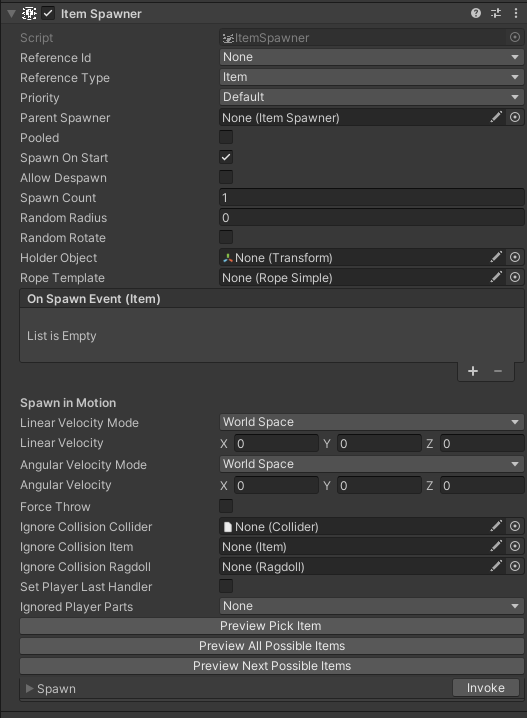
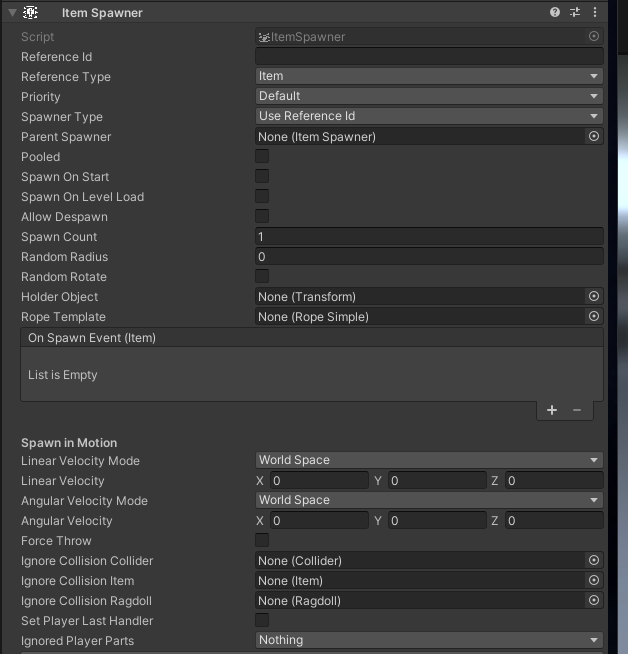
Updated ImbueZone and ItemSpawner scripts

diff --git a/Components/ThunderRoad/Items/ItemSpawner.md b/Components/ThunderRoad/Items/ItemSpawner.md
@@ -4,13 +4,11 @@ grand_parent: ThunderRoad
 ---
 # Item Spawner
 
-Item Spawner is a script that allows you to spawn an item, whether it be to spawn a prop, shoot an item or any other means. This script allows you to spawn items through [Unity Events][UnityEvents], spawning items with motion, to allow you to create spawnable projectiles.
+Item Spawner is a script that allows you to spawn an item, whether it be to spawn a prop, shoot an item or any other means. This script allows you to spawn items through events, spawning items with motion, to allow you to create spawnable projectiles.
+
+[Unity Event Documentation](https://docs.unity3d.com/Manual/UnityEvents.html){: .btn .btn-purple }
 
 ![ItemSpawner][ItemSpawner]
-
-{: .note}
-"Spawn" Button is for internal use only, it may be removed in the future.
-
 
 {: .note}
 If your item has a JSON inside the Unity Catelog, it will show a gizmo of the item if the ID matches. It will also do the same for a LootTable, of which it shows all the items in the selection.
@@ -23,9 +21,11 @@ If your item has a JSON inside the Unity Catelog, it will show a gizmo of the it
 | Reference ID          | The Item ID of the [Item][Item] you want to spawn OR the LootTable ID.
 | Reference Type        | If the Reference is an Item, set to ``Item`` and if it is a Group of Items (LootTable), set to ``Loot Table``.
 | Priority              | This depicts how items spawn in Levels and Dungeons. For more information, see picture at the bottom of this page.
+| Spawner Type          | This allows you to change the type of spawner. This will let you pick if the item uses the reference ID, or if the Spawner spawns items for Dungeon rooms. See Below.
 | Parent Spawner        | When referencing another spawner, this item spawner will spawn the item AFTER the referenced spawner has spawned an item. This prevents item overlap.
 | Pooled                | Spawns items that are stored in pool (For items like Arrows, rocks).
-| Spawn on Start        | Spawns the item on level load or on component enable.
+| Spawn on Start        | Spawns the item on start/component load.
+| Spawn on Level Load   | Spawns the item on Level Load.
 | Allow Despawn         | Allows the item to be able to be despawned (e.g. on new wave start).
 | Spawn Count           | Depicts the amount of the item that spawn at one time.
 | Random Radius         | Radius of the item spawn (Indicates items don't spawn at one point).
@@ -33,7 +33,21 @@ If your item has a JSON inside the Unity Catelog, it will show a gizmo of the it
 | Holder Object         | Reference the [Holder][Holder] that the item gets spawned in to.
 | Rope Template         | Reference the [RopeSimple][RopeSimple] that the item hooks on to.
 
+### Spawner Type
+
+| Type                  | Description
+| ---                   | ---
+| Use Reference Id      | Uses the Reference ID.
+| Side Room             | Will spawn Outpost SideRoom loot.
+| Enemy Drop            | The item spawner will classify this as an "enemy drop" and will be counted as stolen.
+| Treasure              | Will spawn "Treasure" loot.
+| Reward                | Will spawn Outpost "End Chest" loot.
+| Alt Side Room         | Will spawn Dalgarian SideRoom loot.
+| Alt Treasure          | Will spawn Dalgarian "Treasure" loot.
+
 ## Events
+
+[Unity Event Documentation](https://docs.unity3d.com/Manual/UnityEvents.html){: .btn .btn-purple }
 
 This script now supports "On Spawn Event". When an item is spawned via this component, this event will trigger.
 
@@ -63,7 +77,6 @@ This is the definition of Priorities as stated above. This diagram also shows ho
 ![PriorityGizmo][PriorityGizmo]
 
 
-[UnityEvents]: https://docs.unity3d.com/Manual/UnityEvents.html
 [ItemSpawner]: {{ site.baseurl }}/assets/components/ItemSpawner/ItemSpawner.PNG
 [RadiusGizmo]: {{ site.baseurl }}/assets/components/ItemSpawner/SpawnerGizmo.PNG
 [PriorityGizmo]: {{ site.baseurl }}/assets/components/ItemSpawner/PriorityGizmo.png

diff --git a/Components/ThunderRoad/Items/ImbueZone.md b/Components/ThunderRoad/Items/ImbueZone.md
@@ -1,0 +1,23 @@
+---
+parent: Items
+grand_parent: ThunderRoad
+---
+
+# Imbue Zone
+
+{: .important}
+This component requires a collider to be put on the gameObject before adding the script.
+
+Imbue Zone is a component which can imbue items in its' zone. 
+
+![Component][Component]
+
+## Fields
+
+| Field                             | Description
+| ---                               | ---
+| Transfer Rate                     | How fast the item will imbue in the zone
+| Transfer Max Percent              | You can change this to limit the amount of imbue this zone can provide. 100 is "100%" of imbue, while 25 would be 25% of the imbue, before it stops imbuing the item.
+| Imbue Spell Id                    | Specify what spell imbue is imbuing this weapon. For Blade and Sorcery, the vanilla IDs are "Fire", "Lightning" and "Gravity".
+
+[Component]: {{ site.baseurl }}/assets/components/ImbueZone/Component.png
